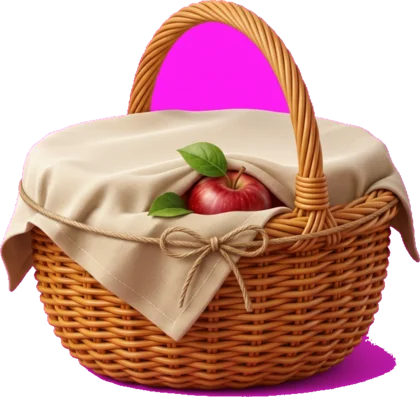
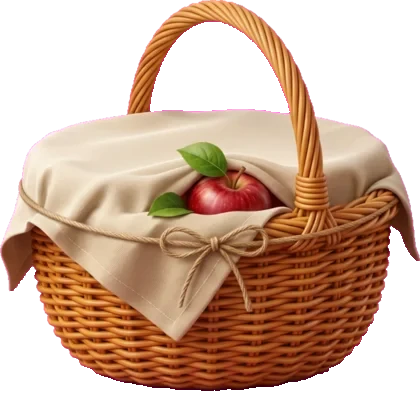
Clean basket keying and improve mass intro spacing

diff --git a/src/styles.css b/src/styles.css
@@ -6135,7 +6135,7 @@ h1[tabindex='-1']:focus {
   justify-content: center;
   align-items: center;
   gap: 9px;
-  min-height: 110px;
+  min-height: 140px;
 }
 .mass-intro-equation > .mass-object-weight {
   width: 108px;
@@ -6162,7 +6162,7 @@ h1[tabindex='-1']:focus {
 }
 .mass-intro-result {
   display: block;
-  margin-top: 14px;
+  margin-top: 24px;
   color: #2e593e;
   font-size: clamp(17px, 3.7vw, 23px);
   letter-spacing: -0.03em;
@@ -6201,7 +6201,7 @@ h1[tabindex='-1']:focus {
 .mass-intro-ten-label {
   grid-column: 1 / -1;
   margin-top: 4px;
-  font-size: 11px;
+  font-size: 14px;
   font-weight: 800;
   color: #33543d;
 }
@@ -6248,5 +6248,19 @@ h1[tabindex='-1']:focus {
   }
   .mass-intro-equation > .mass-object-parcel span {
     font-size: 13px;
+  }
+}
+
+/* Intro labels remain readable and clear of the equation beneath the objects. */
+.mass-intro-equation > .mass-object-weight span {
+  top: 68%;
+  font-size: 17px;
+}
+@media (max-width: 540px) {
+  .mass-intro-equation > .mass-object-weight span {
+    font-size: 15px;
+  }
+  .mass-intro-ten-label {
+    font-size: 12px;
   }
 }

diff --git a/tests/e2e/app.spec.ts b/tests/e2e/app.spec.ts
@@ -425,6 +425,9 @@ test('mass introduction offers two visual examples without source links', async 
   const dialog = page.getByRole('dialog', { name: 'Килограмм и грамм' });
   await expect(dialog.locator('.mass-intro-ten .mass-object-weight')).toHaveCount(10);
   await expect(dialog.getByText('1 кг = 1 000 г')).toBeVisible();
+  const objects = await dialog.locator('.mass-intro-equation').boundingBox();
+  const result = await dialog.locator('.mass-intro-result').boundingBox();
+  expect(objects && result && result.y >= objects.y + objects.height).toBe(true);
   await expect(dialog.getByText('Об источнике темы')).toHaveCount(0);
   await dialog.getByRole('button', { name: 'Кг вместе с г' }).click();
   await expect(dialog.getByText('1 000 г + 200 г = 1 200 г')).toBeVisible();
